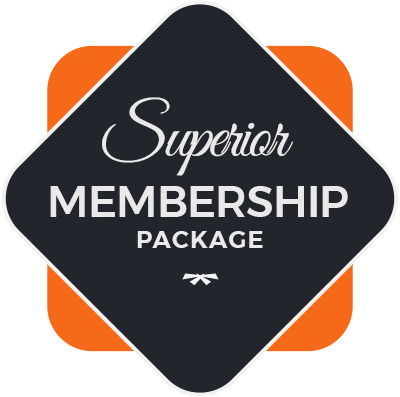
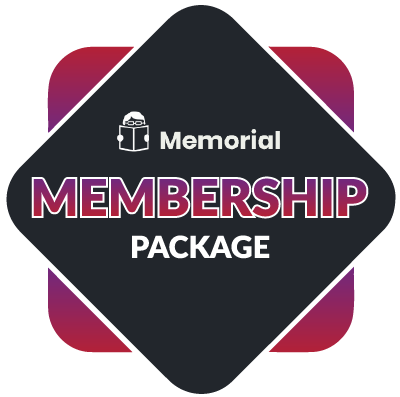
fix-membership

diff --git a/public/css/style.css b/public/css/style.css
@@ -2556,10 +2556,15 @@ a.drop-menu i.fa-caret-down {
 }
 
 .person {
-    color: #007b5e;
+    color: rgba(128, 0, 128, 0.66);
     font-family: 'Yrsa', serif;
     font-size: 30px;
     padding: 15px
+}
+
+.price_pack{
+    color: black;
+    font-size: x-large;
 }
 
 
@@ -2636,3 +2641,5 @@ a.drop-menu i.fa-caret-down {
     font-size: small;
     color: #b32137;
 }
+
+

diff --git a/resources/views/customer/membership.blade.php b/resources/views/customer/membership.blade.php
@@ -36,7 +36,7 @@
     </div>
 </div>
 @if($membership==null||$membership->status==3)
-<h3>Become a member at Memorial library during our anniversary week and get 10% off the membership free! Get access to our ever -expanding collection of books event and activites.    </h3>
+<h3>Become a member at <b>Memorial Library</b> during our anniversary week and get 10% off the membership free! Get access to our more expanding collection of books event and activites.    </h3>
  @endif
     @if($membership==null||$membership->status==3)
     <div class="row">
@@ -51,9 +51,10 @@
                             </div>
                         </div>
                         <div class="flip-card-back">
-                            <h1 class="person text- ">Package One</h1>
-                            <p class="description text-black-50">This is some description about the member of the team, which appears at the back of card and the image appears at the top of the front side with their social media links and the position of the member.</p>
-                            <p>9$/1 Month</p>
+                            <h1 class="person text">Package One</h1>
+                            <p class="description text-black-50" style="display: flex">Our standard full membership. Price below for annual Direct Debit. You can use other standard services.</p>
+                            <br>
+                            <p class="price_pack pb-4">9$/1 Month</p>
                             <a onclick="confirm('Are you sure you want to register this membership Package!')" href="{{url('customer/RegisPack/'.$account->id).'?pack=1'}}" class="btn btn-success">Register</a>
                         </div>
                     </div>
@@ -71,9 +72,10 @@
                             </div>
                         </div>
                         <div class="flip-card-back">
-                            <h1 class="person text- ">Package two</h1>
-                            <p class="description text-black-50">This is some description about the member of the team, which appears at the back of card and the image appears at the top of the front side with their social media links and the position of the member.</p>
-                            <p>25$/3 Months</p>
+                            <h1 class="person text">Package two</h1>
+                            <p class="description text-black-50" style="display: flex">For applicants who in love with. Price below for annual Direct Debit. And you can use other services and free drinks.</p>
+                            <br>
+                            <p class="price_pack pb-4">25$/3 Months</p>
                             <a onclick="confirm('Are you sure you want to register this membership Package!')" href="{{url('customer/RegisPack/'.$account->id).'?pack=2'}}" class="btn btn-success">Register</a>
                         </div>
                     </div>
@@ -91,9 +93,10 @@
                             </div>
                         </div>
                         <div class="flip-card-back">
-                            <h1 class="person text- ">Package three</h1>
-                            <p class="description text-black-50">This is some description about the member of the team, which appears at the back of card and the image appears at the top of the front side with their social media links and the position of the member.</p>
-                            <p>89$/1 Year</p>
+                            <h1 class="person text">Package three</h1>
+                            <p class="description text-black-50" style="display: flex">Spouses or partners of individual or life members. You will be invited to events and can use all services from our Library.</p>
+                            <br>
+                            <p class="price_pack pb-4">89$/1 Year</p>
                             <a onclick="confirm('Are you sure you want to register this membership Package!')" href="{{url('customer/RegisPack/'.$account->id).'?pack=3'}}" class="btn btn-success">Register</a>
                         </div>
                     </div>

diff --git a/resources/views/layout/profile.blade.php b/resources/views/layout/profile.blade.php
@@ -31,8 +31,7 @@
 				<div class="profile-userbuttons">
                     <form id="formA" method="POST" action="{{url('customer/changeAvatar/'.$account->id)}}" enctype="multipart/form-data" >
                         @csrf
-                        <button type="button" class="btn btn-success btn-sm">Follow</button>
-                        <label for="my-input1"><span  class="btn btn-danger btn-sm">Change avatar</span></label>
+                        <label for="my-input1"><span  class="btn btn-outline-secondary btn-sm">Change avatar</span></label>
                         <input id="my-input1" class="form-control" type="file" hidden name="upload" onchange="document.getElementById('formA').submit()">
 
 					    {{-- <button type="button" class="btn btn-danger btn-sm">Change avatar</button> --}}
